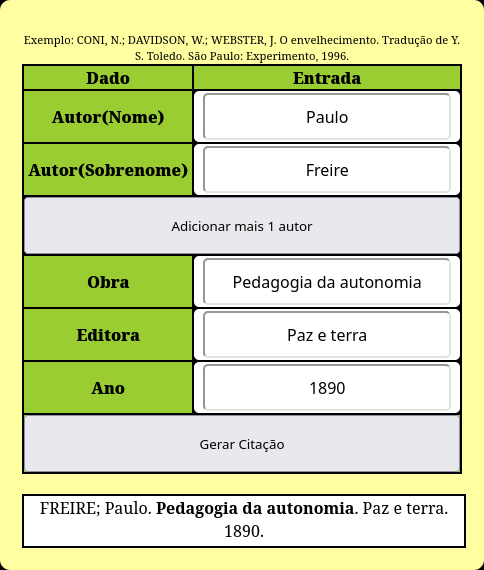
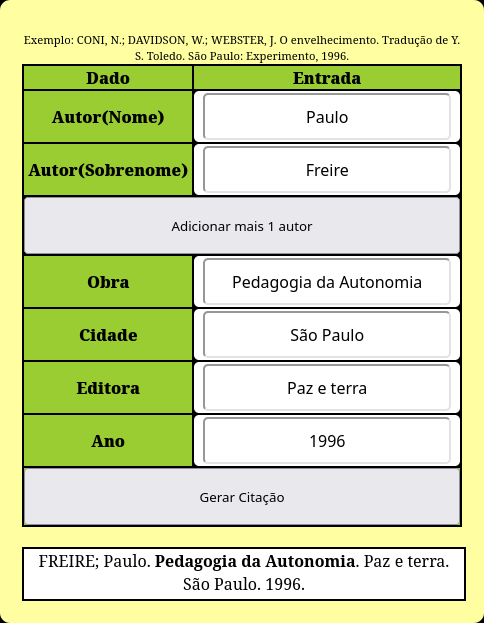
Corrigido ícone, adicionado cidade.

Changed region(s): [[0.031, 0.0596, 0.9607, 0.9842], [0.9917, 0.9842, 1.0, 1.0], [0.9917, 0.0, 1.0, 0.0298]]

diff --git a/script.js b/script.js
@@ -2,6 +2,7 @@ var nomeAutor;
 var sobreNomeAutor;
 var obra;
 var editora;
+var cidade;
 var ano;
 var citacao;
 
@@ -16,6 +17,9 @@ function gerarCitacao() {
     if(document.getElementById('obraInput').value){
         obra = document.getElementById('obraInput').value;
     }
+    if(document.getElementById('cidadeInput').value){
+        cidade = document.getElementById('cidadeInput').value;
+    }
     if(document.getElementById('editoraInput').value){
         editora = document.getElementById('editoraInput').value;
     }
@@ -23,12 +27,12 @@ function gerarCitacao() {
         ano = document.getElementById('anoInput').value;
     }
 
-    citacao = sobreNomeAutor.toUpperCase() + "; " + nomeAutor + ". "  + obra.bold() + ". " + editora + ". " + ano + ".";
+    citacao = sobreNomeAutor.toUpperCase() + "; " + nomeAutor + ". "  + obra.bold() + ". " + editora + ". " + cidade + ". " + ano + ".";
     if (citacao) {
         document.getElementById('citacao').innerHTML = citacao;
     }
 }
 
 function maisAutor(){
-    
+
 }

diff --git a/index.html b/index.html
@@ -7,7 +7,7 @@
     <meta name="viewport" content="width=device-width, initial-scale=1.0">
     <title>Gerador de citações</title>
     <link rel="stylesheet" href="style.css" />
-    <link rel="icon" type="image/x-icon" href="/favicon.ico" />
+    <link rel="icon" type="icon" href="/favicon.ico" />
 
 </head>
 
@@ -39,6 +39,10 @@
                     <td><input id="obraInput" /></td>
                 </tr>
                 <tr>
+                    <th>Cidade</th>
+                    <td><input id="cidadeInput" /></td>
+                </tr>
+                <tr>    
                     <th>Editora</th>
                     <td><input id="editoraInput" /></td>
                 </tr>

diff --git a/style.css b/style.css
@@ -5,7 +5,7 @@
 }
 #background{
     width: 100%;
-    height: 100vh;
+    height: 100%;
     background-color: black;
     padding: 10px;
 }
